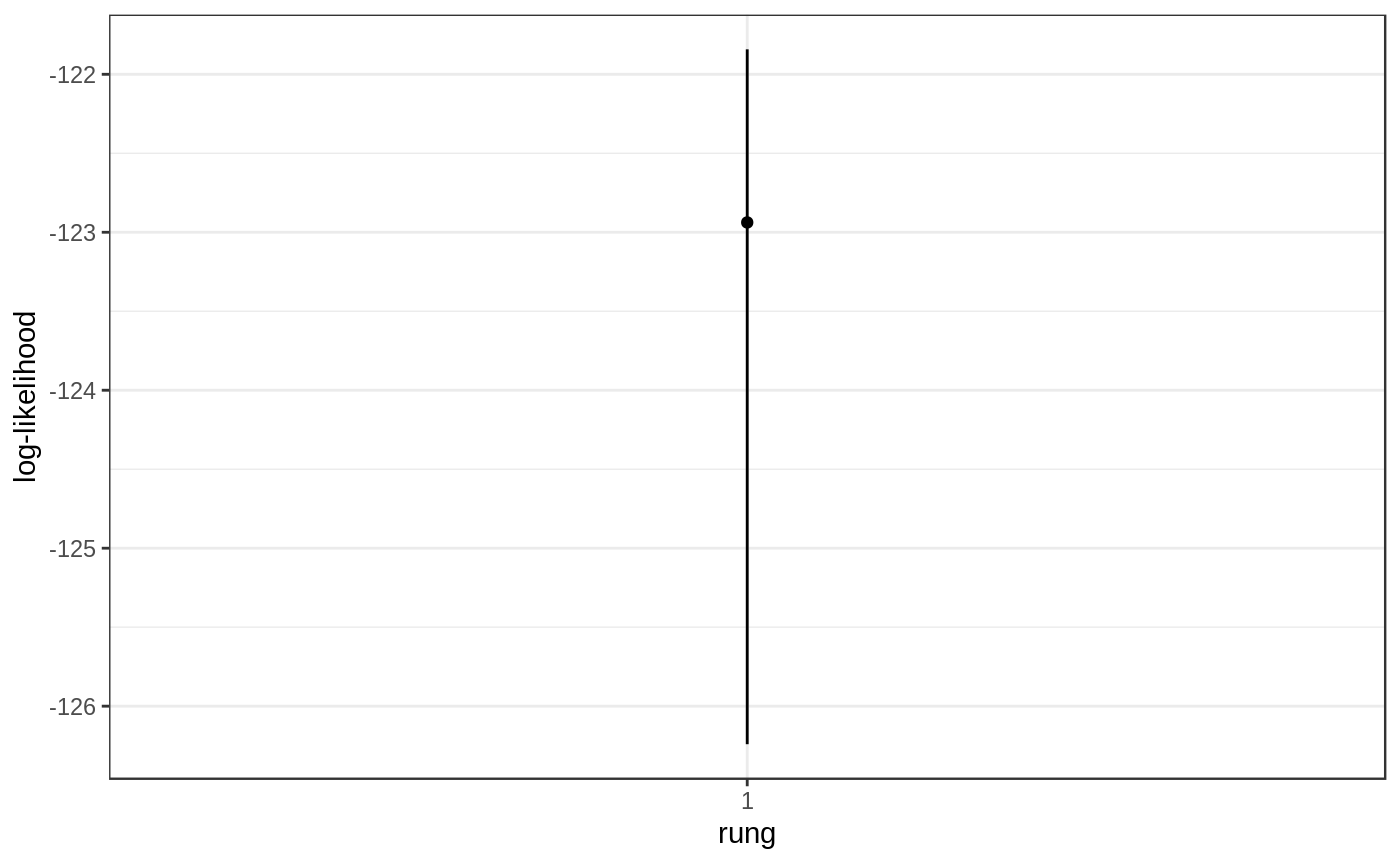
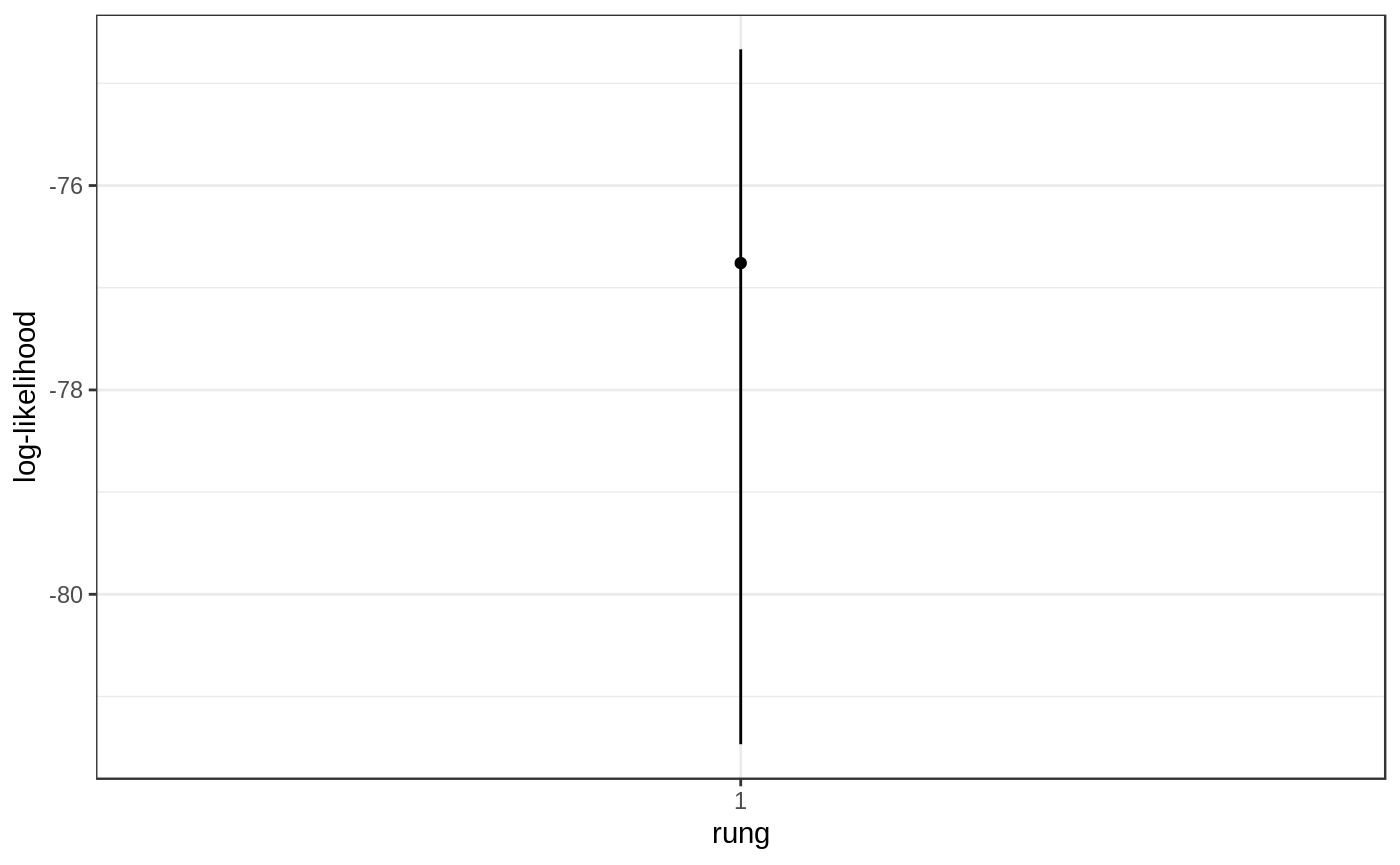
Rcpp version test

diff --git a/docs/articles/basic-implementation.html b/docs/articles/basic-implementation.html
@@ -79,7 +79,7 @@
       <h1>Tutorial 1: Basic Implementation</h1>
                         <h4 class="author">Michael Stevens</h4>
             
-            <h4 class="date">2018-10-17</h4>
+            <h4 class="date">2018-10-18</h4>
       
       <small class="dont-index">Source: <a href="https://github.com/Michael-Stevens-27/silverblaze/blob/master/vignettes/basic-implementation.Rmd"><code>vignettes/basic-implementation.Rmd</code></a></small>
       <div class="hidden name"><code>basic-implementation.Rmd</code></div>
@@ -215,7 +215,7 @@ data_all &lt;-<span class="st"> </span>sim1<span class="op">$</span>record<span 
 ## 
   |                                                                       
   |=================================================================| 100%
-##    completed in 0.912814 seconds
+##    completed in 0.944431 seconds
 ## 
 ## Running MCMC for K = 2
 ## Burn-in phase
@@ -227,7 +227,7 @@ data_all &lt;-<span class="st"> </span>sim1<span class="op">$</span>record<span 
 ## 
   |                                                                       
   |=================================================================| 100%
-##    completed in 1.93094 seconds
+##    completed in 1.9563 seconds
 ## 
 ## Running MCMC for K = 3
 ## Burn-in phase
@@ -239,10 +239,10 @@ data_all &lt;-<span class="st"> </span>sim1<span class="op">$</span>record<span 
 ## 
   |                                                                       
   |=================================================================| 100%
-##    completed in 3.40382 seconds
+##    completed in 3.45535 seconds
 ## 
 ## Processing results</code></pre>
-<pre><code>## Total run-time: 12.37 seconds</code></pre>
+<pre><code>## Total run-time: 12.69 seconds</code></pre>
 </div>
 <div id="plotting" class="section level2">
 <h2 class="hasAnchor">
@@ -273,21 +273,21 @@ plot1</code></pre></div>
 <h2 class="hasAnchor">
 <a href="#diagnostics" class="anchor"></a>Diagnostics</h2>
 <p>Firstly we question the MCMC’s ability by producing diagnostic plots of the log-likelihood. This can be done for each value of <code>K</code> to ensure the algorithm is behaving properly.</p>
-<div class="sourceCode"><pre class="sourceCode r"><code class="sourceCode r"><span class="kw"><a href="../reference/plot_loglike_dignostic.html">plot_loglike_dignostic</a></span>(p, <span class="dt">K =</span> <span class="dv">3</span>)</code></pre></div>
+<div class="sourceCode"><pre class="sourceCode r"><code class="sourceCode r"><span class="kw"><a href="../reference/plot_loglike_dignostic.html">plot_loglike_dignostic</a></span>(p, <span class="dt">K =</span> <span class="dv">2</span>)</code></pre></div>
 <p><img src="basic-implementation_files/figure-html/unnamed-chunk-16-1.png" width="700"></p>
-<p>Using the <code><a href="../reference/plot_loglike.html">plot_loglike()</a></code> function we can collapse the density plot just produced into a 95% quantile plot. For now this will only show the result of one trace plot but with the addition of multiple temperature rungs. In this case, the result of each rung could be plotted next to one another.</p>
-<div class="sourceCode"><pre class="sourceCode r"><code class="sourceCode r"><span class="kw"><a href="../reference/plot_loglike.html">plot_loglike</a></span>(p, <span class="dt">K =</span> <span class="dv">1</span>)</code></pre></div>
+<p>Using the <code><a href="../reference/plot_loglike.html">plot_loglike()</a></code> function we can collapse the density plot just produced into a 95% quantile plot. For now this will only show the result of one trace plot but with the addition of multiple temperature rungs each result could be plotted next to one another for easy comparison.</p>
+<div class="sourceCode"><pre class="sourceCode r"><code class="sourceCode r"><span class="kw"><a href="../reference/plot_loglike.html">plot_loglike</a></span>(p, <span class="dt">K =</span> <span class="dv">2</span>)</code></pre></div>
 <p><img src="basic-implementation_files/figure-html/unnamed-chunk-17-1.png" width="700"></p>
 <p>Another useful metric for assessing the MCMC is its effective sampling size (ESS). If we have 10,000 sampling iterations but an ESS of 80 then we really only have 80 samples from the posterior, and so we should run it out for longer.</p>
-<div class="sourceCode"><pre class="sourceCode r"><code class="sourceCode r"><span class="kw"><a href="../reference/get_ESS.html">get_ESS</a></span>(p, <span class="dt">K =</span> <span class="dv">3</span>)</code></pre></div>
+<div class="sourceCode"><pre class="sourceCode r"><code class="sourceCode r"><span class="kw"><a href="../reference/get_ESS.html">get_ESS</a></span>(p, <span class="dt">K =</span> <span class="dv">2</span>)</code></pre></div>
 <pre><code>##    rung1 
-## 1674.964</code></pre>
+## 1068.835</code></pre>
 <div class="sourceCode"><pre class="sourceCode r"><code class="sourceCode r"><span class="co"># get_output(p, name = "K1", type = “ESS”)</span></code></pre></div>
 <p>We can also plot the posterior 95% credible intervals of each sigma. The <code>"single"</code> model will produce intervals for each source, this requires updating (TODO).</p>
 <div class="sourceCode"><pre class="sourceCode r"><code class="sourceCode r"><span class="kw"><a href="../reference/plot_sigma.html">plot_sigma</a></span>(p, <span class="dt">K =</span> <span class="dv">2</span>)</code></pre></div>
 <p><img src="basic-implementation_files/figure-html/unnamed-chunk-19-1.png" width="700"></p>
 <p>Similarly the same can be done for the expected population size.</p>
-<div class="sourceCode"><pre class="sourceCode r"><code class="sourceCode r"><span class="kw"><a href="../reference/plot_expected_popsize.html">plot_expected_popsize</a></span>(p, <span class="dt">K =</span> <span class="dv">3</span>)</code></pre></div>
+<div class="sourceCode"><pre class="sourceCode r"><code class="sourceCode r"><span class="kw"><a href="../reference/plot_expected_popsize.html">plot_expected_popsize</a></span>(p, <span class="dt">K =</span> <span class="dv">2</span>)</code></pre></div>
 <p><img src="basic-implementation_files/figure-html/unnamed-chunk-20-1.png" width="700"></p>
 <p>With <code><a href="../reference/plot_structure.html">plot_structure()</a></code> we are able to visualise the model’s allocation of positive sentinel sites to sources. Each vertical bar represents a sentinel site that captured at least one individual. The proportion of each colour on that bar translates to the probability that sentinel site is associated with a specific source.</p>
 <div class="sourceCode"><pre class="sourceCode r"><code class="sourceCode r"><span class="kw"><a href="../reference/plot_structure.html">plot_structure</a></span>(p, <span class="dt">divide_ind_on =</span> <span class="ot">TRUE</span>)</code></pre></div>

diff --git a/docs/articles/installation.html b/docs/articles/installation.html
@@ -76,7 +76,7 @@
       <h1>Installation</h1>
                         <h4 class="author">Bob Verity</h4>
             
-            <h4 class="date">2018-10-17</h4>
+            <h4 class="date">2018-10-18</h4>
       
       <small class="dont-index">Source: <a href="https://github.com/Michael-Stevens-27/silverblaze/blob/master/vignettes/installation.Rmd"><code>vignettes/installation.Rmd</code></a></small>
       <div class="hidden name"><code>installation.Rmd</code></div>
